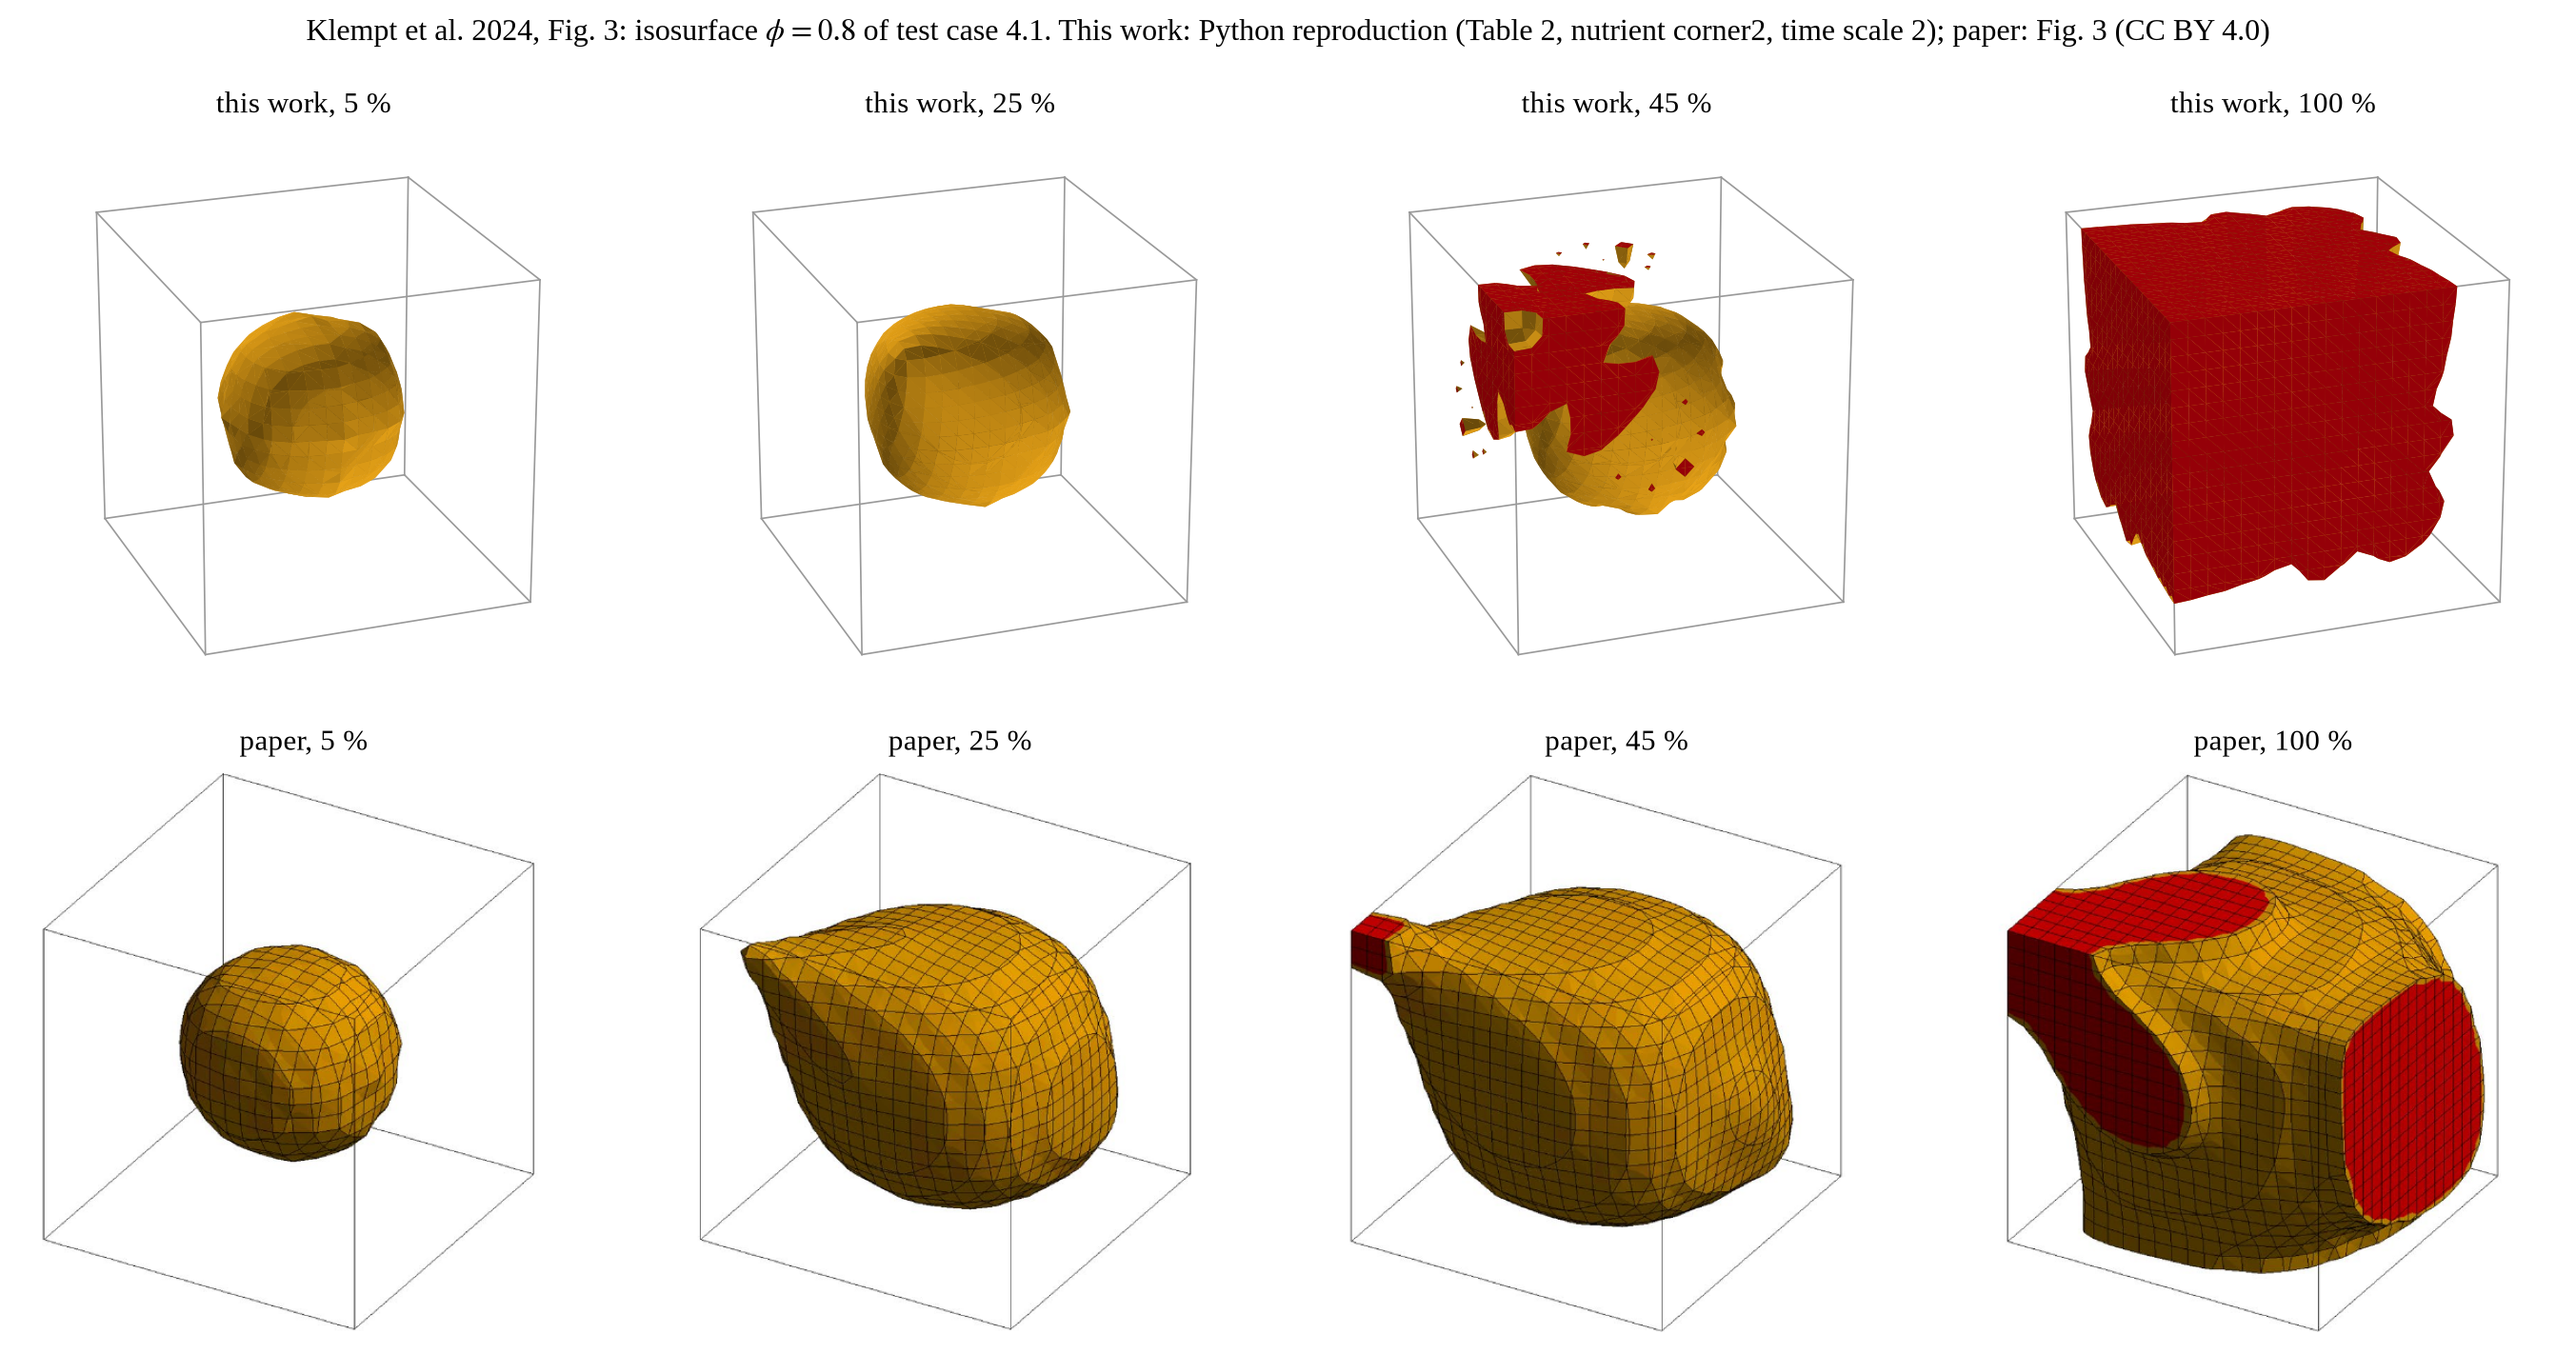
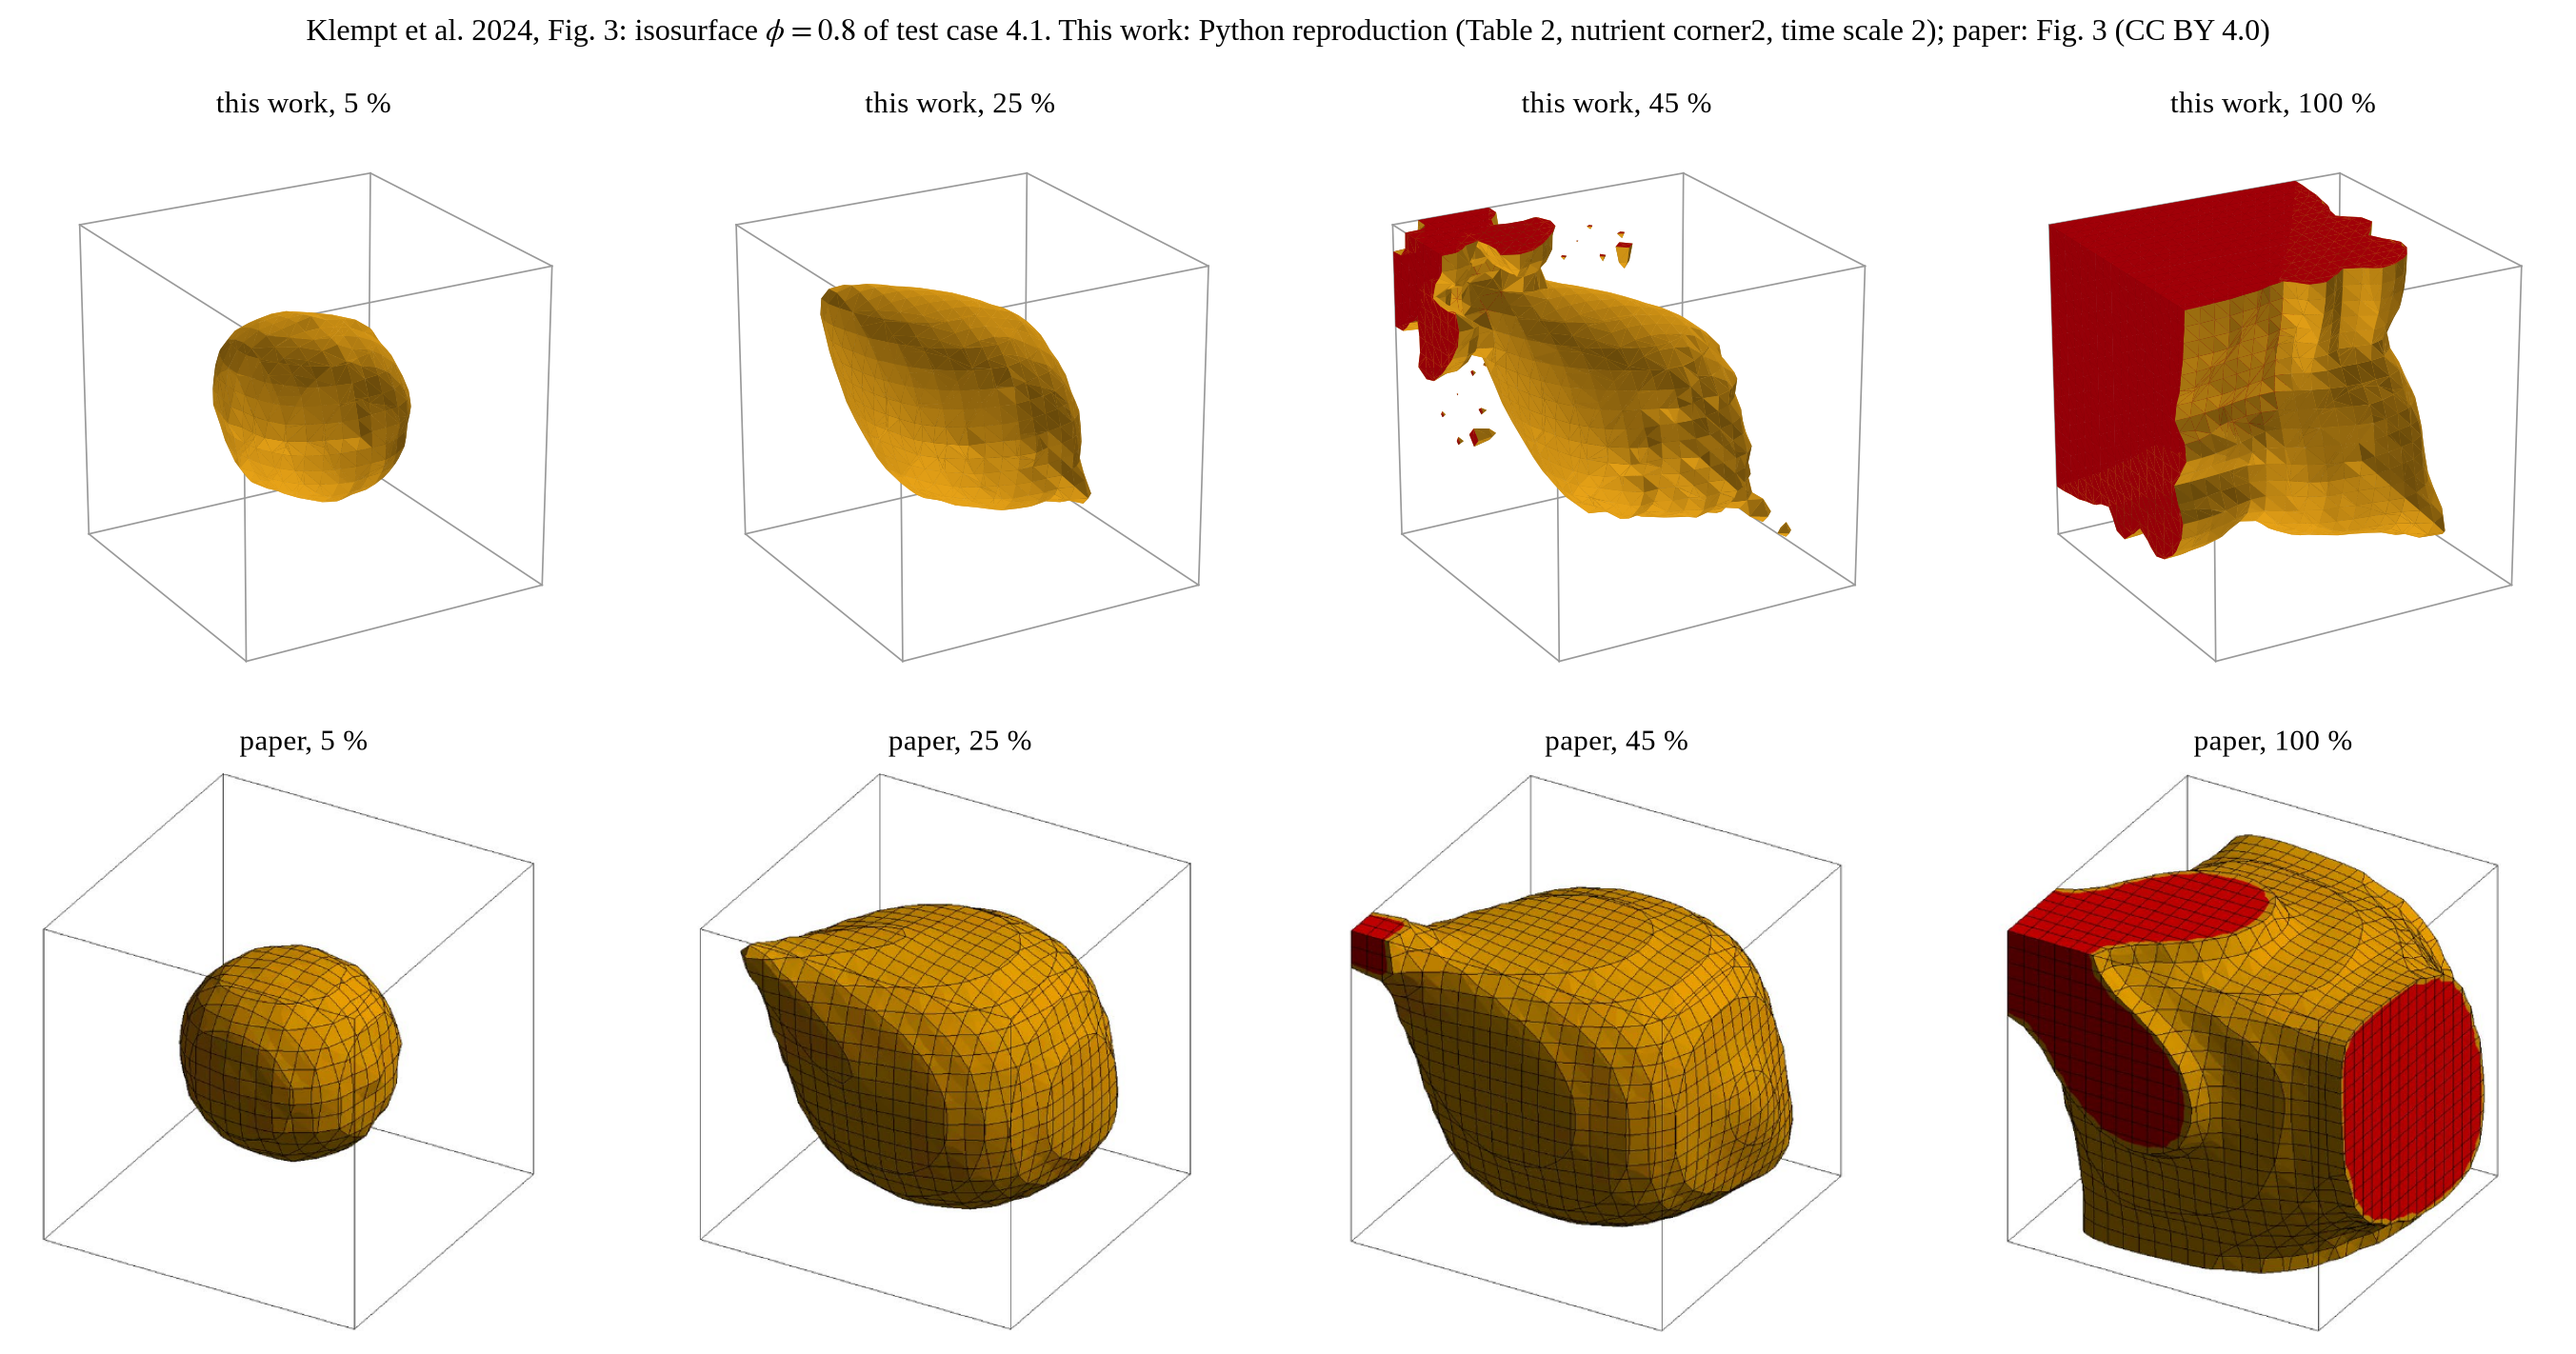
Klempt 2024 Fig. 3: view from the paper's side; the egg shape is reproduced in kind

diff --git a/JAXFEM/klempt2024_fig3.py b/JAXFEM/klempt2024_fig3.py
@@ -38,7 +38,7 @@ import klempt2024_quantitative as K  # noqa: E402
 OUT = ROOT / "assets" / "fig_klempt2024_fig3.png"
 PDF = ROOT / "references" / "Klempt2024_Hamilton_biofilm_growth_BMMB.pdf"
 TIMES = [0.05, 0.25, 0.45, 1.00]
-AZIM = 70
+AZIM = 150
 ORANGE, RED = "#e8a317", "#c0000a"
 
 

diff --git a/KLEMPT2024_REPRODUCTION.md b/KLEMPT2024_REPRODUCTION.md
@@ -368,16 +368,16 @@ an RMS of 0.029 (φ) and 0.015 (c); the edge line of §12 gave 0.029 / 0.051
 (`JAXFEM/klempt2024_corner_scan.py`). So the corner block is the better
 reading of the set-up, and §12's 4.1 row improves to 0.03 / 0.02.
 
-The shape is a different matter (`JAXFEM/klempt2024_fig3.py`, isosurface
-φ = 0.8 next to the paper's panels; `JAXFEM/klempt2024_table3_fig.py`,
-Table 3's diagonal cut in the paper's colours):
+The shape (`JAXFEM/klempt2024_fig3.py`, isosurface φ = 0.8 next to the
+paper's panels, seen from the paper's side with the nutrient corner at the
+top left; `JAXFEM/klempt2024_table3_fig.py`, Table 3's diagonal cut in the
+paper's colours):
 - at 5 % the sphere matches;
-- from 25 % on, the paper's biofilm is an egg drawn out towards the corner
-  and away from it, with a sharp interface, and reaches the corner in a tube
-  by 45 %. Here it stays nearly round with a diffuse interface, and a
-  separate patch grows at the source.
-- A likely reason: with consumption g φ c the colony depletes the nutrient
-  inside itself, so ∇c points outwards on every face and growth on both
-  faces is the same all round. The paper's c (Table 3) has contours centred
-  on the corner, so its ∇c is dominated by the gradient from the source.
-  This is not resolved; the averages agree, the morphology does not.
+- at 25 % both are an egg drawn out towards the nutrient corner and away
+  from it, and at 45 % both reach the corner. A first rendering seen along
+  the corner diagonal made the egg look round; that was the viewpoint.
+- Differences: here the egg is more slender, with a more diffuse interface,
+  scattered small patches appear near the source, and at 100 % the biofilm
+  fills the block at the corner rather than touching two opposite faces as
+  in the paper. The averages agree; the morphology agrees in kind, not in
+  detail.
